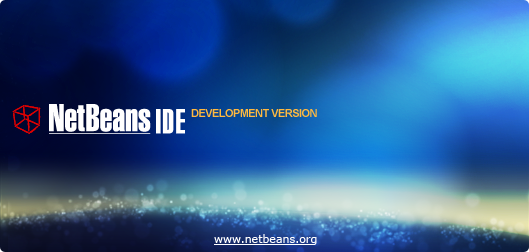
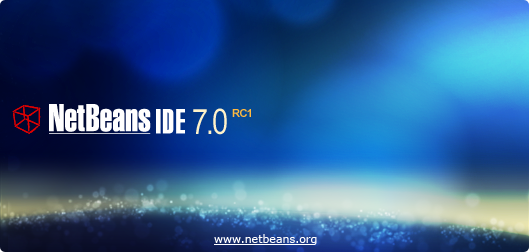
7.0 RC1 branding.

Changed region(s): [[0.3629, 0.4167, 0.6049, 0.5556]]

diff --git a/installer/infra/build/web/js/build_info.js b/installer/infra/build/web/js/build_info.js
@@ -54,19 +54,19 @@ build_info.ADDITIONAL_BUILD_LOCATION   = "{alternative.languages.page.url}";
 
 build_info.BUILD_LOCATION = "";
 
-build_info.LOAD_OMNITURE_CODE          = 0;
-build_info.LOAD_GOOGLE_ANALYTICS_CODE  = 0;
+build_info.LOAD_OMNITURE_CODE          = 1;
+build_info.LOAD_GOOGLE_ANALYTICS_CODE  = 1;
 build_info.USE_BOUNCER                 = 0;
 build_info.ADD_VERSION_INFO_TO_URL     = 0;
 
 build_info.BOUNCER_URL = "http://services.netbeans.org/bouncer/index.php";
 
-build_info.USE_HTML_ZIP_LISTING = 0;
+build_info.USE_HTML_ZIP_LISTING = 1;
 
 build_info.add_download_tabs = function() {
 	add_download_tab("6.9.1", "http://netbeans.org/downloads");
-	add_download_tab("7.0 Beta 2", "http://download.netbeans.org/netbeans/7.0/beta2/");
-	add_download_tab(DEVELOPMENT_TITLE /*,DEVELOPMENT_BUILDS_LINK*/);
+	add_download_tab("7.0 RC 1");
+	add_download_tab(DEVELOPMENT_TITLE ,DEVELOPMENT_BUILDS_LINK);
 	add_download_tab(ARCHIVE_TITLE,ARCHIVE_BUILDS_LINK);
 }
 add_build_info(build_info);

diff --git a/installer/infra/build/web/js/common_strings.js b/installer/infra/build/web/js/common_strings.js
@@ -75,8 +75,8 @@ BUNDLE_LONG_NAMES[2] = "C/C++";
 BUNDLE_LONG_NAMES[3] = "PHP";
 BUNDLE_LONG_NAMES[4] = "All";
 
-var RELEASE_NOTES_LINK  = "http://netbeans.org/community/releases/69/relnotes.html";
-var INSTALL_NOTES_LINK  = "http://netbeans.org/community/releases/69/install.html";
+var RELEASE_NOTES_LINK  = "http://netbeans.org/community/releases/70/relnotes.html";
+var INSTALL_NOTES_LINK  = "http://netbeans.org/community/releases/70/install.html";
 
 var LEGAL_INFO_HEADER = "Important Legal Information:";
 
